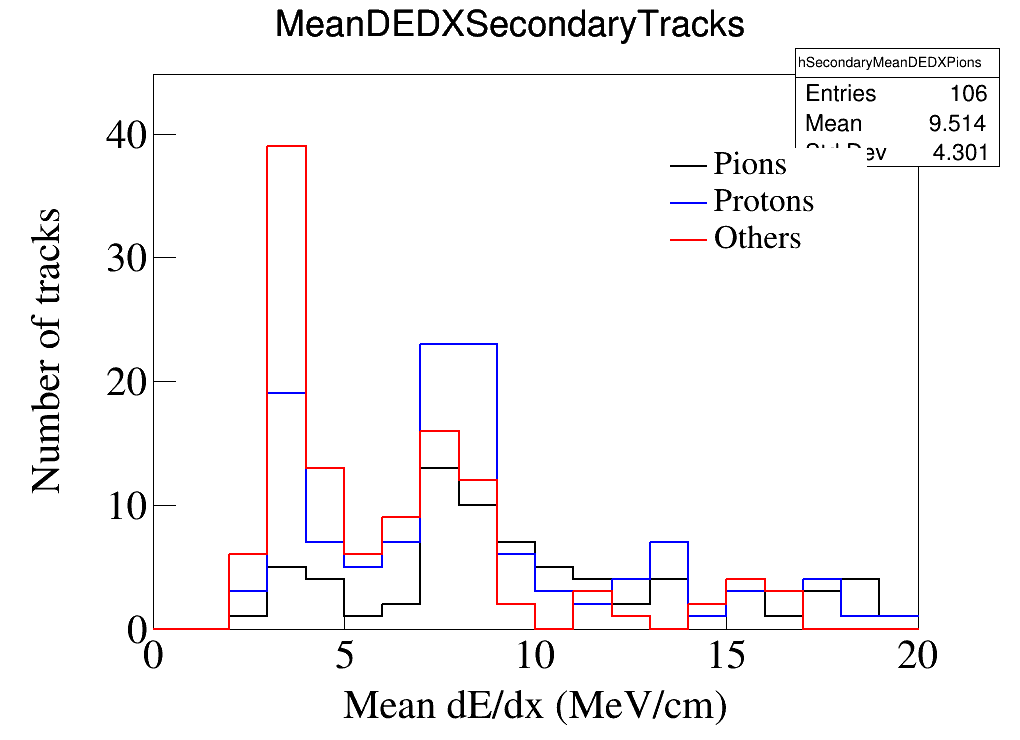
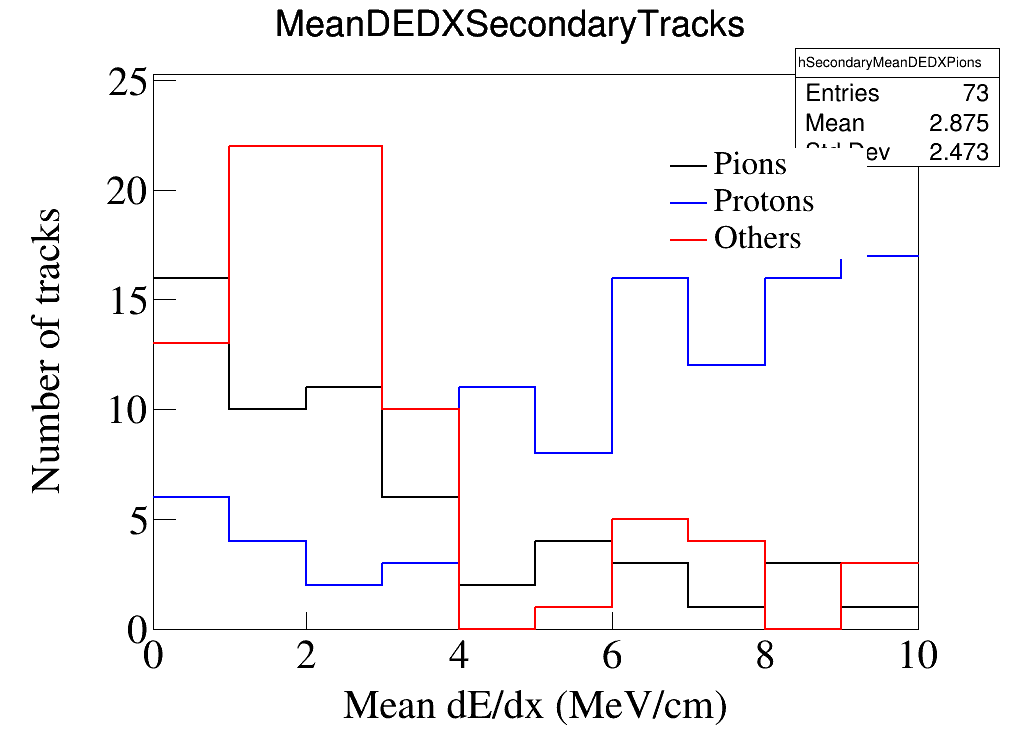
Secondary track selection

diff --git a/RecoAllAnalysis.cc b/RecoAllAnalysis.cc
@@ -65,6 +65,7 @@ void printOneDPlots(
     std::vector<TString> xlabels, 
     std::vector<TString> ylabels
 );
+void printTwoDPlots(TString dir, std::vector<TH2*> plots, std::vector<TString> titles);
 
 ///////////////////
 // Main function //
@@ -101,19 +102,19 @@ void RecoAllAnalysis() {
     //    11: other
 
     // Values for chi^2 secondary fits
-    double PION_CHI2_PION_VALUE     = 1.25;
-    double PION_CHI2_PROTON_VALUE   = 2.25;
-    double PROTON_CHI2_PION_VALUE   = 1.75;
-    double PROTON_CHI2_PROTON_VALUE = 2.75; 
+    double PION_CHI2_PION_VALUE     = 1.375;
+    double PION_CHI2_PROTON_VALUE   = 2.625;
+    double PROTON_CHI2_PION_VALUE   = 1.375;
+    double PROTON_CHI2_PROTON_VALUE = 0.125;
 
     // Mean dE/dx threshold
-    double MEAN_DEDX_THRESHOLD = 5.0;
+    double MEAN_DEDX_THRESHOLD = 4.0;
 
     // Vertex radius
     double VERTEX_RADIUS = 5.0;
 
     // Number of points to use in mean dE/dx calculation
-    int MEAN_DEDX_NUM_TRAJ_POINTS = 20;
+    int MEAN_DEDX_NUM_TRAJ_POINTS = 5;
 
     // Proton energy bounds
     double PROTON_ENERGY_LOWER_BOUND = 0.075;
@@ -255,9 +256,73 @@ void RecoAllAnalysis() {
     TH1D *hSecondaryProtonChi2Pions   = new TH1D("hSecondaryProtonChi2Pions", "hSecondaryProtonChi2Pions;;", 20, 0, 10);
     TH1D *hSecondaryProtonChi2Others  = new TH1D("hSecondaryProtonChi2Others", "hSecondaryProtonChi2Others;;", 20, 0, 10);
 
-    TH1D *hSecondaryMeanDEDXProtons = new TH1D("hSecondaryMeanDEDXProtons", "hSecondaryMeanDEDXProtons;;", 20, 0, 20);
-    TH1D *hSecondaryMeanDEDXPions   = new TH1D("hSecondaryMeanDEDXPions", "hSecondaryMeanDEDXPions;;", 20, 0, 20);
-    TH1D *hSecondaryMeanDEDXOthers  = new TH1D("hSecondaryMeanDEDXOthers", "hSecondaryMeanDEDXOthers;;", 20, 0, 20);
+    TH1D *hSecondaryMeanDEDXProtons = new TH1D("hSecondaryMeanDEDXProtons", "hSecondaryMeanDEDXProtons;;", 10, 0, 10);
+    TH1D *hSecondaryMeanDEDXPions   = new TH1D("hSecondaryMeanDEDXPions", "hSecondaryMeanDEDXPions;;", 10, 0, 10);
+    TH1D *hSecondaryMeanDEDXOthers  = new TH1D("hSecondaryMeanDEDXOthers", "hSecondaryMeanDEDXOthers;;", 10, 0, 10);
+
+    /////////////////////////////////////////////////////
+    // Variables and histograms for chi^2 optimization //
+    /////////////////////////////////////////////////////
+
+    int protonChiNumSteps = 20;
+    double protonChiStart = 0.;
+    double protonChiEnd   = 5.;
+    double protonChiStep  = (protonChiEnd - protonChiStart) / ((double) protonChiNumSteps);
+
+    int pionChiNumSteps = 20;
+    double pionChiStart = 0.;
+    double pionChiEnd   = 5.;
+    double pionChiStep  = (pionChiEnd - pionChiStart) / ((double) pionChiNumSteps);
+
+    TH2D* hProtonChi2TruePositives = new TH2D(
+        "hProtonChi2TruePositives", 
+        "hProtonChi2TruePositives;Proton chi squared;Pion chi squared", 
+        protonChiNumSteps, protonChiStart, protonChiEnd, 
+        pionChiNumSteps, pionChiStart, pionChiEnd
+    );
+    TH2D* hProtonChi2FalsePositives = new TH2D(
+        "hProtonChi2FalsePositives", 
+        "hProtonChi2FalsePositives;Proton chi squared;Pion chi squared", 
+        protonChiNumSteps, protonChiStart, protonChiEnd, 
+        pionChiNumSteps, pionChiStart, pionChiEnd
+    );
+    TH2D* hProtonChi2TrueNegatives = new TH2D(
+        "hProtonChi2TrueNegatives", 
+        "hProtonChi2TrueNegatives;Proton chi squared;Pion chi squared", 
+        protonChiNumSteps, protonChiStart, protonChiEnd, 
+        pionChiNumSteps, pionChiStart, pionChiEnd
+    );
+    TH2D* hProtonChi2FalseNegatives = new TH2D(
+        "hProtonChi2FalseNegatives", 
+        "hProtonChi2FalseNegatives;Proton chi squared;Pion chi squared", 
+        protonChiNumSteps, protonChiStart, protonChiEnd, 
+        pionChiNumSteps, pionChiStart, pionChiEnd
+    );
+
+    TH2D* hPionChi2TruePositives = new TH2D(
+        "hPionChi2TruePositives", 
+        "hPionChi2TruePositives;Proton chi squared;Pion chi squared", 
+        protonChiNumSteps, protonChiStart, protonChiEnd, 
+        pionChiNumSteps, pionChiStart, pionChiEnd
+    );
+    TH2D* hPionChi2FalsePositives = new TH2D(
+        "hPionChi2FalsePositives", 
+        "hPionChi2FalsePositives;Proton chi squared;Pion chi squared", 
+        protonChiNumSteps, protonChiStart, protonChiEnd, 
+        pionChiNumSteps, pionChiStart, pionChiEnd
+    );
+    TH2D* hPionChi2TrueNegatives = new TH2D(
+        "hPionChi2TrueNegatives", 
+        "hPionChi2TrueNegatives;Proton chi squared;Pion chi squared", 
+        protonChiNumSteps, protonChiStart, protonChiEnd, 
+        pionChiNumSteps, pionChiStart, pionChiEnd
+    );
+    TH2D* hPionChi2FalseNegatives = new TH2D(
+        "hPionChi2FalseNegatives", 
+        "hPionChi2FalseNegatives;Proton chi squared;Pion chi squared", 
+        protonChiNumSteps, protonChiStart, protonChiEnd, 
+        pionChiNumSteps, pionChiStart, pionChiEnd
+    );
 
     //////////////////////
     // Loop over events //
@@ -384,7 +449,7 @@ void RecoAllAnalysis() {
             }
             outStitchedFile << std::endl;
 
-            if ((backgroundType == 1 ) || (backgroundType == 7)) {
+            if ((backgroundType == 1) || (backgroundType == 7)) {
                 hStitchedDistanceFromVertex->Fill(distanceFromVertex);
                 hStitchedOriginalDistanceFromVertex->Fill(originalDistanceFromVertex);
             }
@@ -473,6 +538,46 @@ void RecoAllAnalysis() {
                 } else {
                     hSecondaryPionChi2Others->Fill(pionChi2);
                     hSecondaryProtonChi2Others->Fill(protonChi2);
+                }
+
+                // Fill chi2 plots for optimization
+                for (int iPionChiStep = 0; iPionChiStep < pionChiNumSteps; iPionChiStep++) {
+                    double currentPionChiValue = pionChiStart + (iPionChiStep * pionChiStep);
+                    for (int iProtonChiStep = 0; iProtonChiStep < protonChiNumSteps; iProtonChiStep++) {
+                        double currentProtonChiValue = protonChiStart + (iProtonChiStep * protonChiStep);
+                        
+                        if ((pionChi2 < currentPionChiValue) && (protonChi2 > currentProtonChiValue)) {
+                            // Tagged as pion
+                            if (secondaryMatchedPDG == -211) {
+                                hPionChi2TruePositives->Fill(currentProtonChiValue, currentPionChiValue);
+                            } else {
+                                hPionChi2FalsePositives->Fill(currentProtonChiValue, currentPionChiValue);
+                            }
+                        } else if ((pionChi2 > currentPionChiValue) && (protonChi2 < currentProtonChiValue)) {
+                            // Tagged as proton
+                            if (secondaryMatchedPDG == 2212) {
+                                hProtonChi2TruePositives->Fill(currentProtonChiValue, currentPionChiValue);
+                            } else {
+                                hProtonChi2FalsePositives->Fill(currentProtonChiValue, currentPionChiValue);
+                            }
+                        }
+
+                        if (!((pionChi2 < currentPionChiValue) && (protonChi2 > currentProtonChiValue))) {
+                            if (secondaryMatchedPDG == -211) {
+                                hPionChi2FalseNegatives->Fill(currentProtonChiValue, currentPionChiValue);
+                            } else {
+                                hPionChi2TrueNegatives->Fill(currentProtonChiValue, currentPionChiValue);
+                            }
+                        }
+
+                        if (!((pionChi2 > currentPionChiValue) && (protonChi2 < currentProtonChiValue))) {
+                            if (secondaryMatchedPDG == 2212) {
+                                hProtonChi2FalseNegatives->Fill(currentProtonChiValue, currentPionChiValue);
+                            } else {
+                                hProtonChi2TrueNegatives->Fill(currentProtonChiValue, currentPionChiValue);
+                            }
+                        }
+                    }
                 }
 
                 // First, try classifying track using chi^2 fits
@@ -581,6 +686,79 @@ void RecoAllAnalysis() {
     printBackgroundInfo(hRecoAbsorptionNp, std::cout);
     std::cout << std::endl;
 
+    ///////////////////////////
+    // Compute FOM for chi^2 //
+    ///////////////////////////
+
+    TH2D* hProtonChi2FOM = new TH2D(
+        "hProtonChi2FOM", 
+        "hProtonChi2FOM;Proton chi squared;Pion chi squared", 
+        protonChiNumSteps, protonChiStart, protonChiEnd, 
+        pionChiNumSteps, pionChiStart, pionChiEnd
+    );
+    TH2D* hPionChi2FOM = new TH2D(
+        "hPionChi2FOM", 
+        "hPionChi2FOM;Proton chi squared;Pion chi squared", 
+        protonChiNumSteps, protonChiStart, protonChiEnd, 
+        pionChiNumSteps, pionChiStart, pionChiEnd
+    );
+
+    for (int iPionChiStep = 0; iPionChiStep < pionChiNumSteps; iPionChiStep++) {
+        double currentPionChiValue = pionChiStart + (iPionChiStep * pionChiStep);
+        for (int iProtonChiStep = 0; iProtonChiStep < protonChiNumSteps; iProtonChiStep++) {
+            double currentProtonChiValue = protonChiStart + (iProtonChiStep * protonChiStep);
+
+            int binX = hPionChi2TruePositives->GetXaxis()->FindFixBin(currentProtonChiValue);
+            int binY = hPionChi2TruePositives->GetYaxis()->FindFixBin(currentPionChiValue);
+
+            double pion_tp     = hPionChi2TruePositives->GetBinContent(binX, binY);
+            double pion_tn     = hPionChi2TrueNegatives->GetBinContent(binX, binY);
+            double pion_fp     = hPionChi2FalsePositives->GetBinContent(binX, binY);
+            double pion_fn     = hPionChi2FalseNegatives->GetBinContent(binX, binY);
+            double pion_eff    = pion_tp / (pion_tp + pion_tn);
+            double pion_purity = pion_tp / (pion_tp + pion_fp);
+
+            // double pion_fom = pion_tp / std::sqrt(pion_tp + pion_fp);
+            double pion_fom = (2 * pion_tp) / (2 * pion_tp + pion_fp + pion_fn);
+            // double pion_fom = ((pion_tp * pion_tn) - (pion_fp * pion_fn)) / std::sqrt((pion_tp + pion_fp) * (pion_tp + pion_fn) * (pion_tn * pion_fp) * (pion_tn * pion_fn));
+            hPionChi2FOM->SetBinContent(binX, binY, pion_fom);
+
+            double proton_tp     = hProtonChi2TruePositives->GetBinContent(binX, binY);
+            double proton_tn     = hProtonChi2TrueNegatives->GetBinContent(binX, binY);
+            double proton_fp     = hProtonChi2FalsePositives->GetBinContent(binX, binY);
+            double proton_fn     = hProtonChi2FalseNegatives->GetBinContent(binX, binY);
+            double proton_eff    = proton_tp / (proton_tp + proton_tn);
+            double proton_purity = proton_tp / (proton_tp + proton_fp);
+
+            // double proton_fom = proton_tp / std::sqrt(proton_tp + proton_fp);
+            double proton_fom = (2 * proton_tp) / (2 * proton_tp + proton_fp + proton_fn);
+            // double proton_fom = ((proton_tp * proton_tn) - (proton_fp * proton_fn)) / std::sqrt((proton_tp + proton_fp) * (proton_tp + proton_fn) * (proton_tn * proton_fp) * (proton_tn * proton_fn));
+            hProtonChi2FOM->SetBinContent(binX, binY, proton_fom);
+        }
+    }
+
+    Int_t binxPion, binyPion, binzPion;
+    Int_t globalBinPion   = hPionChi2FOM->GetMaximumBin(binxPion, binyPion, binzPion);
+
+    double maxContentPion = hPionChi2FOM->GetBinContent(globalBinPion);
+    double xAtMaxPion     = hPionChi2FOM->GetXaxis()->GetBinCenter(binxPion);
+    double yAtMaxPion     = hPionChi2FOM->GetYaxis()->GetBinCenter(binyPion);
+
+    std::cout << std::endl;
+    std::cout << "[PION]  Max‑FOM = " << maxContentPion
+            << " at (χ²_p, χ²_π) = (" << xAtMaxPion << ", " << yAtMaxPion << ")\n";
+
+    Int_t binxProt, binyProt, binzProt;
+    Int_t globalBinProt   = hProtonChi2FOM->GetMaximumBin(binxProt, binyProt, binzProt);
+
+    double maxContentProt = hProtonChi2FOM->GetBinContent(globalBinProt);
+    double xAtMaxProt     = hProtonChi2FOM->GetXaxis()->GetBinCenter(binxProt);
+    double yAtMaxProt     = hProtonChi2FOM->GetYaxis()->GetBinCenter(binyProt);
+
+    std::cout << "[PROTON] Max‑FOM = " << maxContentProt
+            << " at (χ²_p, χ²_π) = (" << xAtMaxProt << ", " << yAtMaxProt << ")\n";
+    std::cout << std::endl;
+
     //////////////////
     // Create plots //
     //////////////////
@@ -645,9 +823,37 @@ void RecoAllAnalysis() {
         YLabels
     );
 
-    ///////////////////////
-    // Create stacked plots
-    ///////////////////////
+    std::vector<TH2*> TwoDPlots = {
+        hProtonChi2TruePositives, 
+        hProtonChi2FalsePositives,
+        hProtonChi2TrueNegatives,
+        hProtonChi2FalseNegatives,
+        hPionChi2TruePositives, 
+        hPionChi2FalsePositives,
+        hPionChi2TrueNegatives,
+        hPionChi2FalseNegatives,
+        hProtonChi2FOM,
+        hPionChi2FOM
+    };
+
+    std::vector<TString> TwoDTitles = {
+        "ProtonChi2TruePositives",
+        "ProtonChi2FalsePositives",
+        "ProtonChi2TrueNegatives",
+        "ProtonChi2FalseNegatives",
+        "PionChi2TruePositives",
+        "PionChi2FalsePositives",
+        "PionChi2TrueNegatives",
+        "PionChi2FalseNegatives",
+        "ProtonChi2FOM",
+        "PionChi2FOM"
+    };
+
+    printTwoDPlots(SaveDir, TwoDPlots, TwoDTitles);
+
+    //////////////////////////
+    // Create stacked plots //
+    //////////////////////////
 
     THStack* hBackgroundTypesStack = new THStack("hBackgroundTypesStack", "BackgroundTypesStack");
 
@@ -734,14 +940,14 @@ double computeReducedChi2(const TGraph* theory, std::vector<double> xData, std::
 }
 
 double meanDEDX(std::vector<double> trackDEDX, bool isTrackReversed, int pointsToUse) {
-    double dEdx = 0;
+    double dEdx = 0.;
     if (isTrackReversed) std::reverse(trackDEDX.begin(), trackDEDX.end());
 
     unsigned int bound = pointsToUse;
     if (pointsToUse > trackDEDX.size()) bound = trackDEDX.size();
-    for (unsigned int i = 0; i < bound; ++i) dEdx += trackDEDX.size();
-
-    return (dEdx / bound);
+    for (unsigned int i = 0; i < bound; ++i) dEdx += trackDEDX.at(i);
+    dEdx /= bound;
+    return dEdx;
 }
 
 void initializeProtonPoints(TGraph* gProton) {
@@ -913,6 +1119,20 @@ void printOneDPlots(
         leg->Draw();
         PlotCanvas->SaveAs(dir + titles.at(iPlot) + ".png");
         delete PlotCanvas;
+    }
+}
+
+void printTwoDPlots(TString dir, std::vector<TH2*> plots, std::vector<TString> titles) {
+    int nPlots = plots.size();
+
+    gStyle->SetOptStat(0);
+    TCanvas* c1 = new TCanvas("c1", "EnergyLossPlots", 800, 600);
+    for (int iPlot = 0; iPlot < nPlots; ++iPlot) {
+        TH1* hPlot = plots.at(iPlot);
+        hPlot->SetMinimum(0);
+        hPlot->SetMaximum(hPlot->GetMaximum());
+        hPlot->Draw("COLZ");
+        c1->SaveAs(dir + titles.at(iPlot) + ".png");
     }
 }
 
